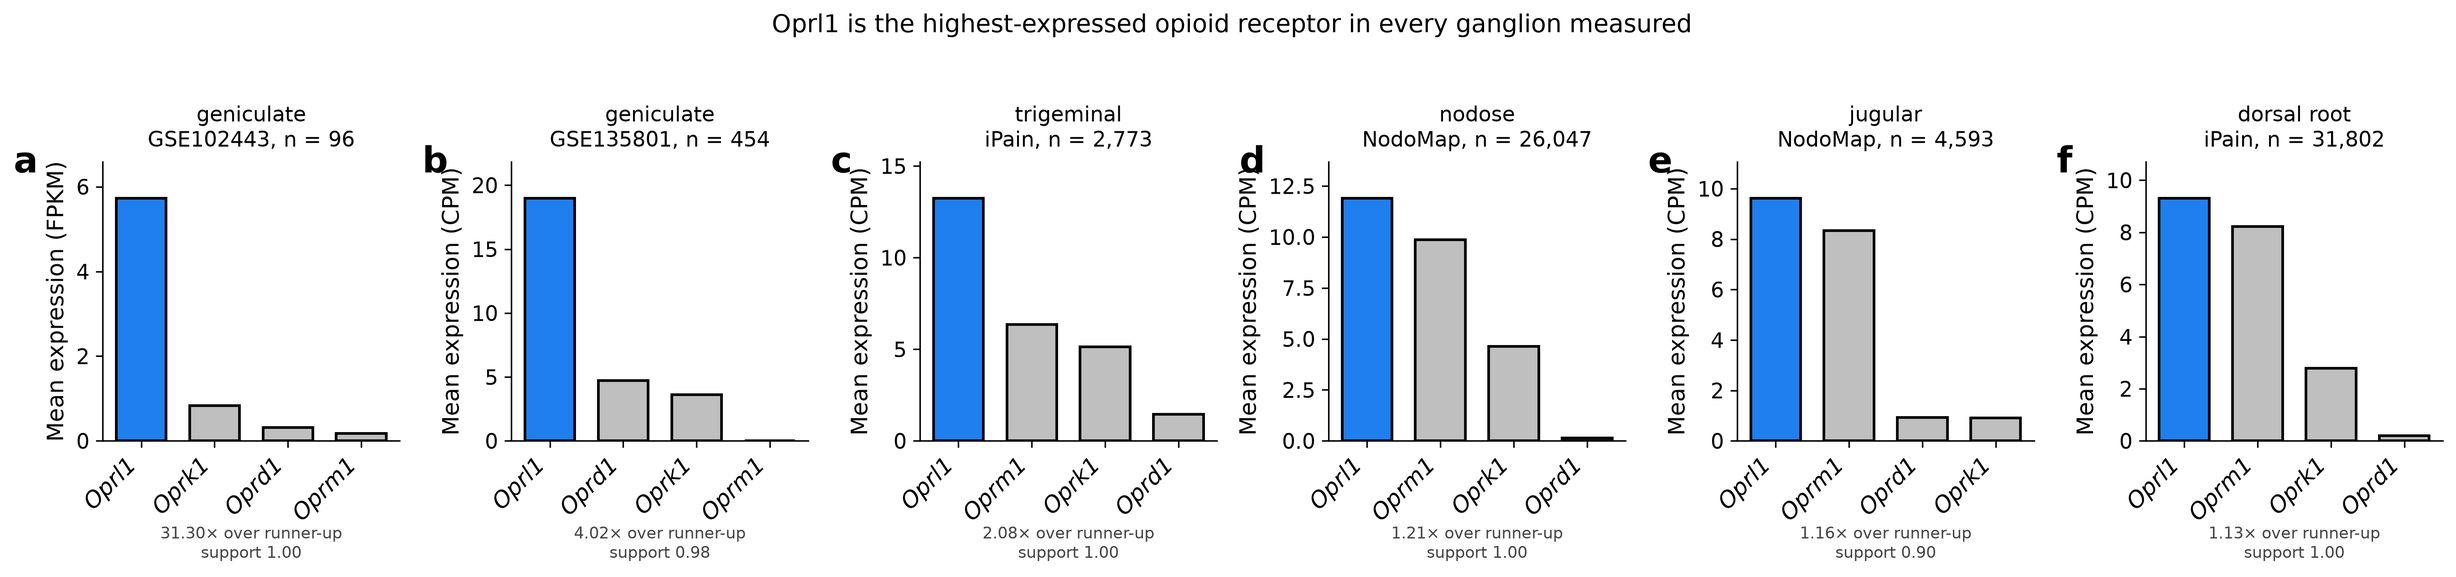
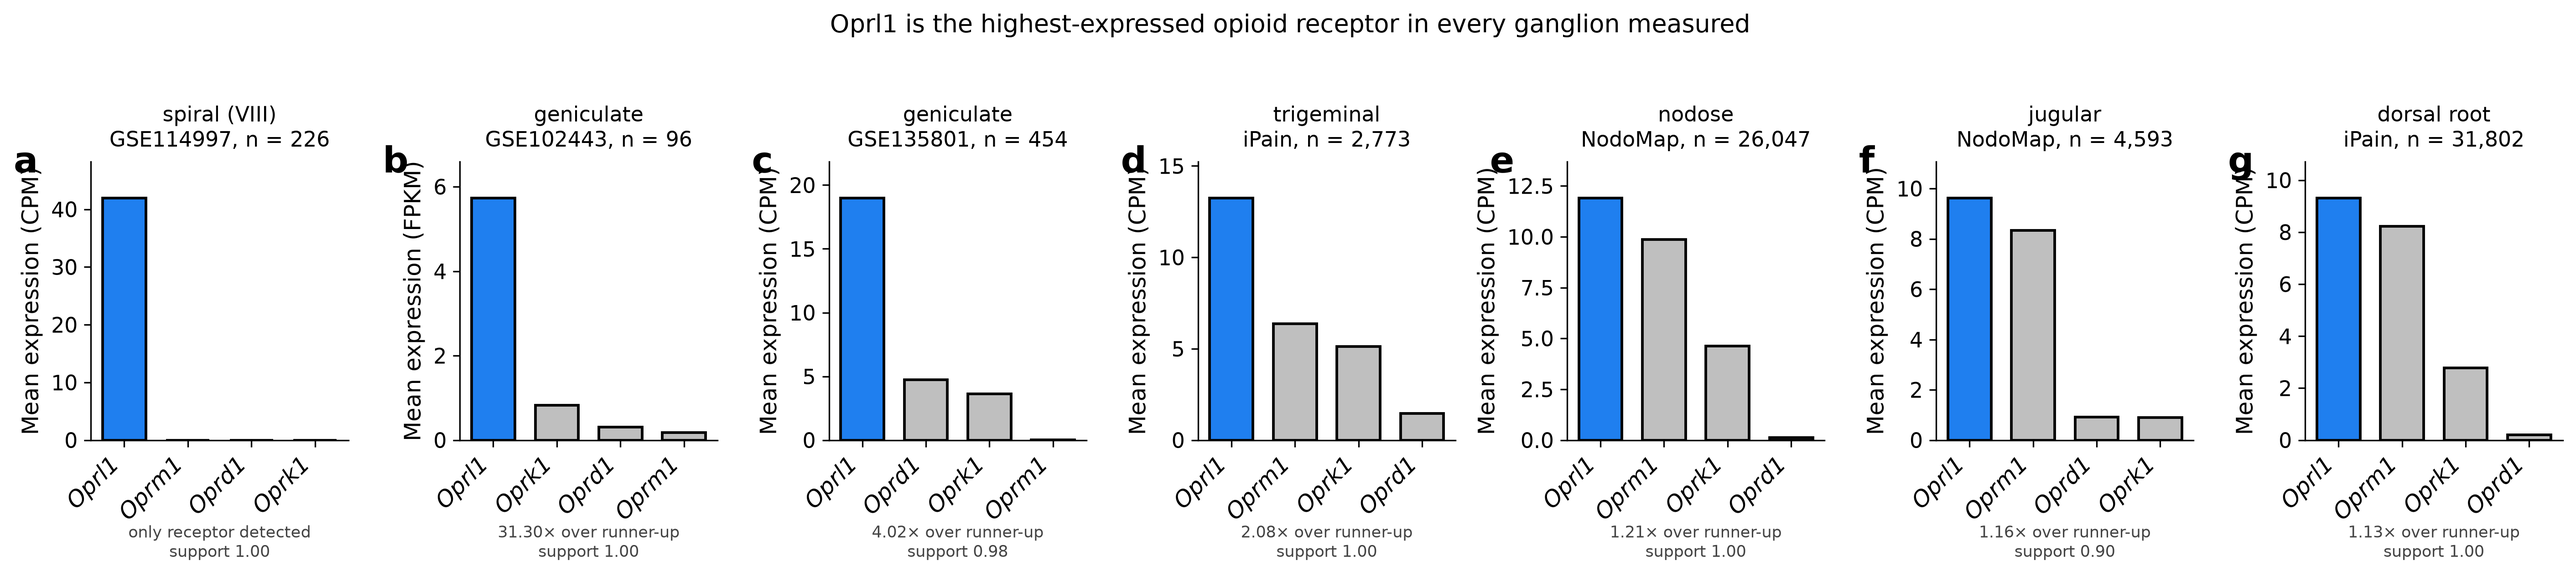
Add the spiral ganglion, and record that petrosal has no dataset
GEO search resolves both remaining rows of the coverage table.

Spiral ganglion (VIII), otic placode, GSE114997 (Shrestha et al. 2018), 226
neurons by full-length SMART-seq at a median library of 2,678,701 reads:

  Oprl1  41.94 CPM  detected in 74.8% of cells
  Oprm1   0.00 CPM  detected in  0.0%
  Oprd1   0.00 CPM  detected in  0.0%
  Oprk1   0.00 CPM  detected in  0.0%

All four receptors are present in the annotation, so the three zeros are
measured absences rather than reference gaps. Depth is 730-fold above the nodose
droplet median, which is what makes a zero interpretable. Oprl1 is the only
opioid receptor detected in any of the 226 auditory afferents.

The same neurons carry Scn1a at 310.2 CPM, Pvalb at 882.6 and Scn10a at 0.00,
which is the Nav1.1-positive Nav1.8-negative profile section 3 predicts should
be Oprl1-high. That is a third ganglion agreeing with the prediction, and the
first from the otic placode.

Petrosal has no dataset. A GEO search for expression profiling by high
throughput sequencing returns a single hit for the term and that record is a
geniculate study. The petrosal is normally dissected within the
nodose-petrosal-jugular complex and pooled, which fits finding none in
isolation. Vestibular data exists (GSE309608, GSE226515) and is not analysed
here.

Figure 1 now spans seven datasets across all three developmental origins,
ordered by margin, with the spiral ganglion first and labelled "only receptor
[…]

diff --git a/src/09_main_figures.py b/src/09_main_figures.py
@@ -24,7 +24,7 @@ import atlas_style as st
 def figure1():
     d = pd.read_csv(ac.RES / "receptor_levels_by_ganglion.csv")
     st.set_theme()
-    fig, axes = plt.subplots(1, len(d), figsize=(3.0 * len(d), 4.4))
+    fig, axes = plt.subplots(1, len(d), figsize=(2.7 * len(d), 4.4))
     for ax, r in zip(np.atleast_1d(axes), d.itertuples()):
         vals = [getattr(r, g) for g in ac.RECEPTORS]
         order = np.argsort(-np.array(vals))
@@ -36,7 +36,9 @@ def figure1():
             fontsize=12)
         st.panel_letter(ax, r.panel, dx=-0.30)
         ax.set_title(f"{r.tissue}\n{r.dataset}, n = {r.n:,}", fontsize=11, pad=8)
-        ax.text(0.5, -0.30, f"{r.margin:.2f}× over runner-up\nsupport {r.support:.2f}",
+        note = ("only receptor detected" if not np.isfinite(r.margin)
+                else f"{r.margin:.2f}× over runner-up")
+        ax.text(0.5, -0.30, f"{note}\nsupport {r.support:.2f}",
                 transform=ax.transAxes, ha="center", va="top", fontsize=8.5,
                 color="#444444")
     fig.suptitle("Oprl1 is the highest-expressed opioid receptor in every ganglion measured",

diff --git a/README.md b/README.md
@@ -34,6 +34,7 @@ unit (`results/*_opioid_levels.csv`):
 
 | dataset | tissue | *Oprl1* | *Oprm1* | *Oprd1* | *Oprk1* | *Oprl1*:*Oprm1* |
 |---|---|---|---|---|---|---|
+| GSE114997 (CPM) | spiral (VIII) | 41.94 | 0.00 | 0.00 | 0.00 | only one detected |
 | GSE102443 (FPKM) | geniculate | 5.73 | 0.18 | 0.31 | 0.83 | 31× |
 | GSE135801 (CPM) | geniculate | 18.98 | 0.01 | 4.72 | 3.61 | large |
 | NodoMap, nodose neurons (CPM) | nodose | 11.90 | 9.86 | 0.13 | 4.63 | 1.21× |
@@ -71,6 +72,13 @@ CPM against *Oprm1* 6.36, a margin of 2.08× with support 1.000 and a 95% interv
 (n = 31,802 whole-cell neurons). The DRG margin is the narrowest measured here and the DRG sample
 is the second largest.
 
+The spiral ganglion gives the clearest case. In 226 neurons sequenced to a median depth of 2.7
+million reads, *Oprl1* is detected in 74.8% of cells at 41.94 CPM and *Oprm1*, *Oprd1* and
+*Oprk1* are detected in none. All four are present in the annotation, so those are measured zeros.
+Depth is 730-fold above the nodose droplet median, which is what makes a zero interpretable. The
+same neurons carry *Scn1a* at 310.2 CPM, *Pvalb* at 882.6 and *Scn10a* at 0.00, the Nav1.1
+profile that section 3 predicts should be *Oprl1*-high.
+
 *Oprm1* in the dorsal root ganglion is highest in the peptidergic nociceptor populations, PEP1 at
 13.93 CPM and SST at 12.06, which is where the peripheral analgesia literature places it. The same
 pipeline that reproduces that distribution places *Oprl1* above *Oprm1* across the ganglion as a
@@ -98,13 +106,19 @@ preparations retain unspliced pre-mRNA and *Oprm1* spans 250 kb against *Oprl1*'
 | jugular (X superior) | neural crest | measured |
 | trigeminal (V) | crest and placode | measured |
 | dorsal root ganglion | neural crest | measured |
-| petrosal (IX) | epibranchial placode | not measured |
-| spiral and vestibular (VIII) | otic placode | not measured |
+| spiral (VIII) | otic placode | measured |
+| vestibular (VIII) | otic placode | not measured |
+| petrosal (IX) | epibranchial placode | no dataset exists |
 
-The survey covers cranial visceral, gustatory and somatic afferents, and both developmental
-origins. Petrosal, spiral and vestibular ganglia return no hits across the 2,210 public datasets
-indexed by CZ CELLxGENE, searched by tissue annotation. The same search returns nothing for the
-superior cervical ganglion, which would serve as a sympathetic specificity control.
+The survey covers cranial visceral, gustatory, auditory and somatic afferents, and all three
+developmental origins of the peripheral sensory system.
+
+Petrosal has no dataset. A GEO search over expression profiling by high-throughput sequencing
+returns one hit for the term, and that record is a geniculate study. The petrosal is normally
+dissected as part of the nodose-petrosal-jugular complex and pooled, which is consistent with
+finding none in isolation. Vestibular data exists (GSE309608, GSE226515, four and six mouse
+samples) and has not been analysed here. The superior cervical ganglion, which would serve as a
+sympathetic specificity control, returns nothing in CELLxGENE.
 
 Human data is unavailable for a different reason. The CELLxGENE human DRG atlas (Nguyen et al.,
 eLife 2021, 1,837 nuclei) quantifies 31,654 genes including *OPRM1*, *OPRD1* and *OPRK1*, and
@@ -439,6 +453,7 @@ python3 -m pytest tests -q                   # 33 unit tests
 - GSE102443 Dvoryanchikov et al. 2017, *Nat Commun*, 96 geniculate neurons, SMART-seq
 - GSE135801 Zhang et al. 2019, *Cell* (Zuker lab), 454 Phox2b+ geniculate neurons
 - GSE166648 Ludwig et al., dorsal vagal complex snRNA-seq, 72,128 nuclei
+- GSE114997 Shrestha et al. 2018, *Cell*, 226 spiral ganglion neurons, SMART-seq
 - iPain Atlas, mouse trigeminal (84,658 cells) and dorsal root ganglion (191,798 cells), via CZ
   CELLxGENE collection `03608e22-227a-4492-910b-3cb3f16f952e`
 - NodoMap Cheng et al. 2026, *Cell Press Blue* 1:100072, doi:10.1016/j.cpblue.2026.100072,

diff --git a/results/EXTERNAL_GANGLIA_NOTES.md b/results/EXTERNAL_GANGLIA_NOTES.md
@@ -1,4 +1,4 @@
-# Trigeminal and dorsal root ganglion, iPain Atlas
+# Ganglia added from external atlases
 
 Exploratory results not yet wired into the pipeline. Source: CZ CELLxGENE collection
 `03608e22-227a-4492-910b-3cb3f16f952e` (iPain Atlas), mouse.
@@ -13,6 +13,26 @@ Pooling all preparations compresses the trigeminal margin from 2.08x to 1.18x.
 |---|---|---|---|---|---|---|---|---|
 | trigeminal | 2,773 | 13.24 | 6.36 | 1.46 | 5.12 | 2.08x | 1.41-3.26 | 1.000 |
 | dorsal root | 31,802 | 9.31 | 8.23 | 0.20 | 2.78 | 1.13x | 1.08-1.19 | 1.000 |
+
+## Spiral ganglion (VIII), GSE114997
+
+Shrestha et al. 2018, 226 spiral ganglion neurons, full-length SMART-seq, median library
+2,678,701 reads. All four opioid receptors are present in the annotation.
+
+| gene | mean CPM | % of cells detected |
+|---|---|---|
+| Oprl1 | 41.94 | 74.8 |
+| Oprm1 | 0.00 | 0.0 |
+| Oprd1 | 0.00 | 0.0 |
+| Oprk1 | 0.00 | 0.0 |
+
+Oprl1 is the only opioid receptor detected in any of the 226 neurons. The other three are
+quantified and read exactly zero, so this is a measured absence rather than a reference gap.
+Library depth is 730-fold above the nodose droplet median, which is what makes a zero
+interpretable here.
+
+The same cells carry Scn1a at 310.2 CPM, Pvalb at 882.6 and Scn10a at 0.00: the Nav1.1-positive,
+Nav1.8-negative profile that section 3 predicts should be Oprl1-high.
 
 ## The proprioceptor prediction
 
